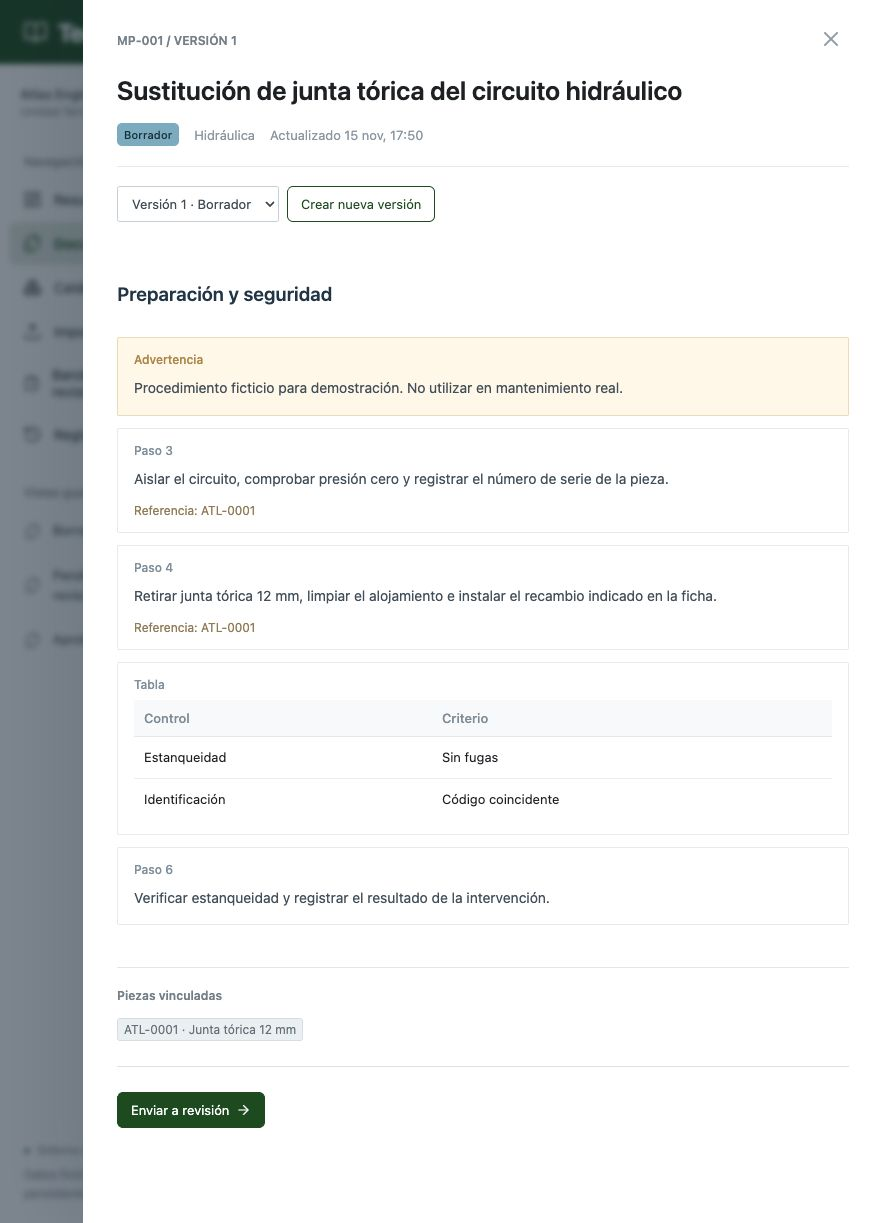
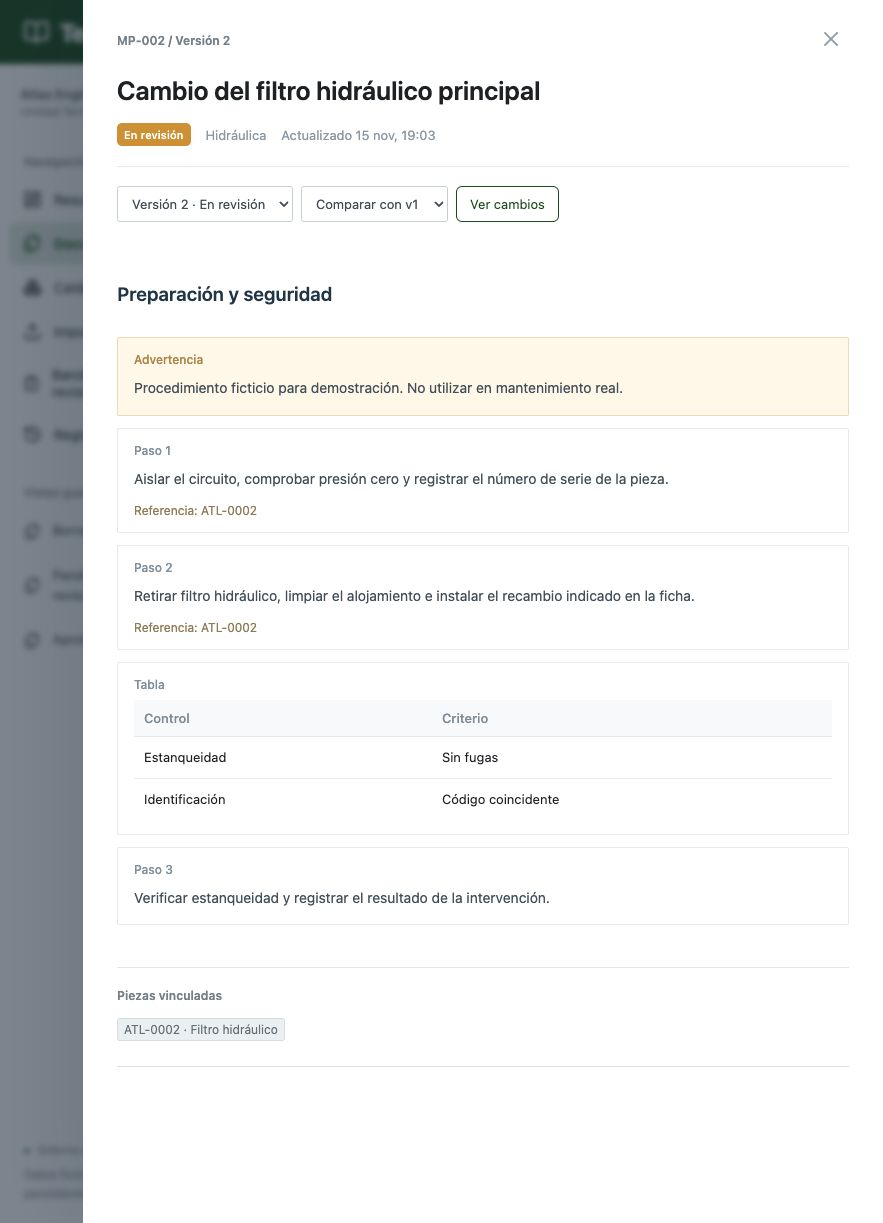
Unificar los textos y los controles con la referencia verde y blanca

diff --git a/web/src/main.tsx b/web/src/main.tsx
@@ -433,7 +433,7 @@ function App() {
         >
           <BookOpen size={27} />
           <span>
-            TechDocs<small>GESTOR DOCUMENTAL</small>
+            TechDocs<small>Gestor documental</small>
           </span>
         </a>
         <div className="workspace">
@@ -583,7 +583,7 @@ function App() {
           )}
           <div className="page-heading">
             <div>
-              <span className="eyebrow">ATLAS R-240 / DOCUMENT CONTROL</span>
+              <span className="eyebrow">Atlas R-240 / Control documental</span>
               <h1>
                 {
                   (
@@ -1277,7 +1277,7 @@ function App() {
           >
             <div className="modal-header">
               <span className="eyebrow">
-                {detail.code} / VERSIÓN {detail.version}
+                {detail.code} / Versión {detail.version}
               </span>
               <button
                 aria-label="Cerrar documento"
@@ -1680,7 +1680,7 @@ function App() {
           >
             <div className="modal-header">
               <span className="eyebrow">
-                {partDetail.code} / REVISIÓN {partDetail.revision}
+                {partDetail.code} / Revisión {partDetail.revision}
               </span>
               <button
                 aria-label="Cerrar ficha"

diff --git a/web/src/style.css b/web/src/style.css
@@ -41,13 +41,13 @@ button:disabled {
 }
 a:focus-visible,
 button:focus-visible {
-  outline: #c69b54 solid 3px;
+  outline: #17541f solid 2px;
   outline-offset: 4px;
 }
 input:focus,
 select:focus,
 textarea:focus {
-  outline: #ad8b53 solid 2px;
+  outline: #17541f solid 2px;
   outline-offset: 1px;
 }
 h1 {
